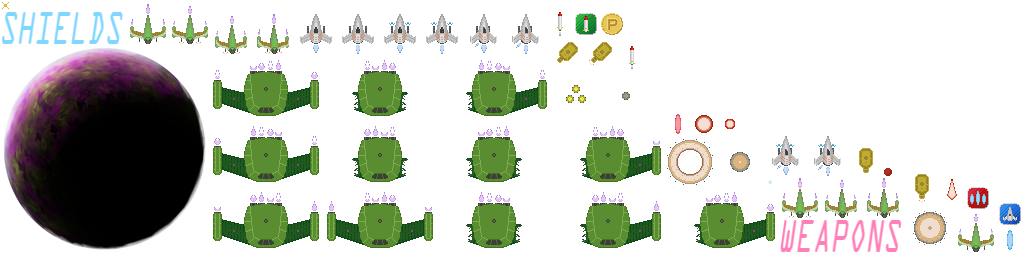
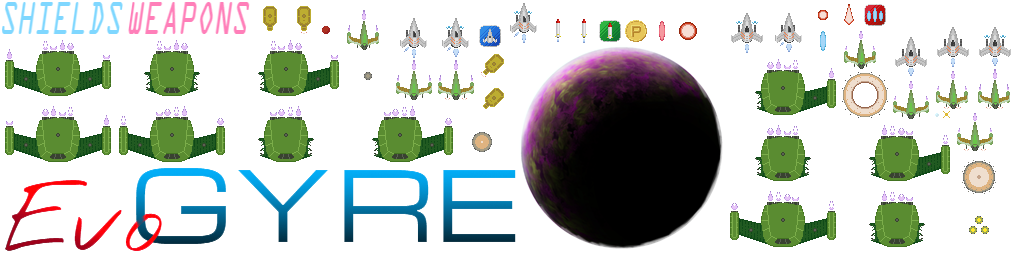
Title image added and DrawingUtils moved

diff --git a/core/src/com/mygdx/game/evogyre/TitleScreen.java b/core/src/com/mygdx/game/evogyre/TitleScreen.java
@@ -1,7 +1,14 @@
 package com.mygdx.game.evogyre;
 
+import com.badlogic.gdx.Gdx;
 import com.badlogic.gdx.InputAdapter;
 import com.badlogic.gdx.Screen;
+import com.badlogic.gdx.graphics.g2d.SpriteBatch;
+import com.badlogic.gdx.graphics.g2d.TextureAtlas;
+import com.badlogic.gdx.graphics.g2d.TextureRegion;
+import com.badlogic.gdx.math.Vector2;
+import com.badlogic.gdx.utils.viewport.FitViewport;
+import com.mygdx.game.evogyre.Utils.DrawingUtils;
 
 /**
  * Created by Jay on 1/12/2016.
@@ -9,9 +16,31 @@ import com.badlogic.gdx.Screen;
 public class TitleScreen extends InputAdapter implements Screen {
     private static final String TAG = TitleScreen.class.getName();
     EvoGyreGame game;
+    FitViewport actionViewport;
+    SpriteBatch batch;
+    MyShapeRenderer myRenderer;
+
+    TextureAtlas atlas;
+    TextureRegion planet;
+    TextureRegion titleText;
 
     public TitleScreen(EvoGyreGame game) {
+        Gdx.input.setInputProcessor(this);
+        Gdx.input.setCatchBackKey(true);
         this.game = game;
+        actionViewport = new FitViewport(Constants.DISPLAY_SIZE, Constants.DISPLAY_SIZE);
+        actionViewport.apply(true);
+
+        batch = new SpriteBatch();
+        myRenderer = new MyShapeRenderer(batch);
+        myRenderer.setAutoShapeType(true);
+        myRenderer.setProjectionMatrix(actionViewport.getCamera().combined);
+        myRenderer.translate(Constants.DISPLAY_SIZE / 2f, Constants.DISPLAY_SIZE / 2f, 0);
+
+        /** LOAD ASSETS **/
+        atlas = game.assets.get(Constants.MAIN_ATLAS);
+        planet = atlas.createSprite("lavender");
+        titleText = atlas.createSprite("title_EvoGyre");
     }
 
     @Override
@@ -50,12 +79,39 @@ public class TitleScreen extends InputAdapter implements Screen {
 
     @Override
     public void resize(int width, int height) {
-
+        Gdx.app.log(TAG, "called 'resize()'");
+        actionViewport.update(width, height, true);
     }
 
     @Override
     public void render(float delta) {
+        // Background color fill
+        DrawingUtils.clearScreen();
 
+        /** DRAW STARS **/
+        VisualEffects.drawStars(myRenderer, 0f, new Vector2(0,0));
+
+        /** DRAW PLANET **/
+        myRenderer.batch.begin();
+        myRenderer.batch.draw(planet,
+                -Constants.DISPLAY_SIZE*.25f - planet.getRegionWidth() / 2,
+                Constants.DISPLAY_SIZE*.25f - planet.getRegionHeight() / 2,
+                planet.getRegionWidth() / 2, planet.getRegionWidth() / 2,
+                planet.getRegionWidth(), planet.getRegionHeight(),
+                1.2f, 1.2f, 0);
+        myRenderer.batch.end();
+
+        /** DRAW TITLE */
+        myRenderer.batch.begin();
+        myRenderer.batch.draw(
+                titleText,
+                -titleText.getRegionWidth() / 2 - 20, 80,
+                titleText.getRegionWidth(), titleText.getRegionHeight(),
+                titleText.getRegionWidth(), titleText.getRegionHeight(),
+                0.8f, 0.8f,
+                0f
+        );
+        myRenderer.batch.end();
     }
 
     @Override

diff --git a/core/src/com/mygdx/game/evogyre/VisualEffects.java b/core/src/com/mygdx/game/evogyre/VisualEffects.java
@@ -34,7 +34,7 @@ public class VisualEffects {
         // TODO: Create a less computationally intensive alternate version
         Color col1 = new Color(0,0,0,0);
 
-        DrawingUtils.enableBlend();
+        com.mygdx.game.evogyre.Utils.DrawingUtils.enableBlend();
         renderer.begin(ShapeRenderer.ShapeType.Line);
 
         float SHIELD_RADIUS = Constants.SHIELD_RADIUS;
@@ -61,13 +61,13 @@ public class VisualEffects {
             }
         }
         renderer.end();
-        DrawingUtils.disableBlend();
+        com.mygdx.game.evogyre.Utils.DrawingUtils.disableBlend();
     }
 
-    private static Tween.SineOut sineOut;
+    private static com.mygdx.game.evogyre.Utils.Tween.SineOut sineOut;
     private static float funnelAlpha;
     public static void drawTunnelInit(float duration) {
-        sineOut = new Tween.SineOut(-Constants.MAP_SIZE_X, 0f, duration);
+        sineOut = new com.mygdx.game.evogyre.Utils.Tween.SineOut(-Constants.MAP_SIZE_X, 0f, duration);
         funnelAlpha = 0.1f;
     }
     public static void drawTunnel(GameScreen screen, float delta,
@@ -89,7 +89,7 @@ public class VisualEffects {
         for (int i = 0; i < ringDistances.length; i++) {
             ringDistances[i] = i * Constants.RING_INTERVAL + ringDisplacement;
         }
-        DrawingUtils.enableBlend();
+        com.mygdx.game.evogyre.Utils.DrawingUtils.enableBlend();
         screen.myRenderer.begin(ShapeRenderer.ShapeType.Line);
         screen.myRenderer.setColor(funnelColor);
         for (float ringX: ringDistances) {
@@ -99,7 +99,7 @@ public class VisualEffects {
             screen.myRenderer.circle((tmpV1.x + tmpV2.x) / 2, (tmpV1.y + tmpV2.y) / 2, tmpV1.dst(tmpV2) / 2, 100);
         }
         screen.myRenderer.end();
-        DrawingUtils.disableBlend();
+        com.mygdx.game.evogyre.Utils.DrawingUtils.disableBlend();
     }
 
     private static Array<Vector2> stars;
@@ -114,7 +114,7 @@ public class VisualEffects {
             }
         }
 
-        DrawingUtils.enableBlend();
+        com.mygdx.game.evogyre.Utils.DrawingUtils.enableBlend();
         renderer.begin(ShapeRenderer.ShapeType.Filled);
         renderer.setColor(Constants.STAR_COLOR);
         for (Vector2 star: stars) {
@@ -124,6 +124,6 @@ public class VisualEffects {
             renderer.circle(rotateStar.x, rotateStar.y, 1f);
         }
         renderer.end();
-        DrawingUtils.disableBlend();
+        com.mygdx.game.evogyre.Utils.DrawingUtils.disableBlend();
     }
 }

diff --git a/core/src/com/mygdx/game/evogyre/Utils/DrawingUtils.java b/core/src/com/mygdx/game/evogyre/Utils/DrawingUtils.java
@@ -1,4 +1,4 @@
-package com.mygdx.game.evogyre;
+package com.mygdx.game.evogyre.Utils;
 
 import com.badlogic.gdx.Gdx;
 import com.badlogic.gdx.graphics.Color;
@@ -6,6 +6,8 @@ import com.badlogic.gdx.graphics.GL20;
 import com.badlogic.gdx.graphics.glutils.ShapeRenderer;
 import com.badlogic.gdx.math.Vector2;
 import com.badlogic.gdx.utils.Array;
+import com.mygdx.game.evogyre.Constants;
+import com.mygdx.game.evogyre.MyShapeRenderer;
 
 /**
  * Created by Jay on 1/26/2016.

diff --git a/core/src/com/mygdx/game/evogyre/Constants.java b/core/src/com/mygdx/game/evogyre/Constants.java
@@ -132,6 +132,12 @@ public class Constants {
     };
     public static final Array<Vector2> VESSEL_POLYGON = new Array<Vector2>(vp_corners);
 
+    /** POWERUPS */
+    public enum Powerup_Types {
+        SHIELD,
+        WEAPON
+    }
+
     /** HUD */
     public static final Color SHIELD_STRENGTH_COLOR_TOP = new Color(0.6f, 0.7f, 1f, 1f);
     public static final Color SHIELD_STRENGTH_COLOR_BOTTOM = new Color(0.2f, 0.3f, 1f, 1f);

diff --git a/core/src/com/mygdx/game/evogyre/PowerupManager.java b/core/src/com/mygdx/game/evogyre/PowerupManager.java
@@ -1,0 +1,21 @@
+package com.mygdx.game.evogyre;
+
+import com.badlogic.gdx.math.Vector2;
+import com.badlogic.gdx.utils.Array;
+
+/**
+ * Created by Jay on 2/28/2016.
+ */
+public class PowerupManager {
+    public void checkCollision(Array<Vessel> vessels) {
+
+    }
+
+    private class Powerup {
+        Vector2 position;
+
+        public void init(Vector2 position) {
+            this.position = position;
+        }
+    }
+}

diff --git a/core/src/com/mygdx/game/evogyre/Utils/Tween.java b/core/src/com/mygdx/game/evogyre/Utils/Tween.java
@@ -1,4 +1,4 @@
-package com.mygdx.game.evogyre;
+package com.mygdx.game.evogyre.Utils;
 
 /**
  * Created by Jay on 1/18/2016.
@@ -8,7 +8,7 @@ package com.mygdx.game.evogyre;
 public class Tween {
     private static final String TAG = Tween.class.getName();
 
-    static class SineOut {
+    public static class SineOut {
         private float timePassed;
         private float startValue;
         private float endValue;

diff --git a/core/src/com/mygdx/game/evogyre/EnemyTrident.java b/core/src/com/mygdx/game/evogyre/EnemyTrident.java
@@ -5,6 +5,7 @@ import com.badlogic.gdx.graphics.g2d.Animation;
 import com.badlogic.gdx.graphics.g2d.TextureAtlas;
 import com.badlogic.gdx.graphics.g2d.TextureRegion;
 import com.badlogic.gdx.math.Vector2;
+import com.mygdx.game.evogyre.Utils.DrawingUtils;
 
 /**
  * Created by Jay on 1/22/2016.

diff --git a/core/src/com/mygdx/game/evogyre/Vessel.java b/core/src/com/mygdx/game/evogyre/Vessel.java
@@ -5,6 +5,7 @@ import com.badlogic.gdx.graphics.g2d.TextureAtlas;
 import com.badlogic.gdx.graphics.g2d.TextureRegion;
 import com.badlogic.gdx.math.Vector2;
 import com.badlogic.gdx.graphics.g2d.Animation;
+import com.mygdx.game.evogyre.Utils.DrawingUtils;
 
 /**
  * Created by Jay on 1/18/2016.

diff --git a/core/src/com/mygdx/game/evogyre/EnemyBallship.java b/core/src/com/mygdx/game/evogyre/EnemyBallship.java
@@ -4,6 +4,7 @@ import com.badlogic.gdx.Application;
 import com.badlogic.gdx.graphics.g2d.TextureAtlas;
 import com.badlogic.gdx.graphics.g2d.TextureRegion;
 import com.badlogic.gdx.math.Vector2;
+import com.mygdx.game.evogyre.Utils.DrawingUtils;
 
 /**
  * Created by Jay on 1/22/2016.

diff --git a/core/src/com/mygdx/game/evogyre/EvoGyreGame.java b/core/src/com/mygdx/game/evogyre/EvoGyreGame.java
@@ -27,7 +27,7 @@ public class EvoGyreGame extends Game {
         settingsScreen = new SettingsScreen(this);
         storyScreen = new StoryScreen(this);
         gameScreen = new GameScreen(this);
-        setScreen(gameScreen);
+        setScreen(titleScreen);
     }
 
 

diff --git a/core/src/com/mygdx/game/evogyre/GameScreen.java b/core/src/com/mygdx/game/evogyre/GameScreen.java
@@ -14,6 +14,7 @@ import com.badlogic.gdx.math.Vector3;
 import com.badlogic.gdx.utils.Array;
 import com.badlogic.gdx.utils.JsonValue;
 import com.badlogic.gdx.utils.viewport.FitViewport;
+import com.mygdx.game.evogyre.Utils.DrawingUtils;
 
 import java.util.Random;
 

diff --git a/core/src/com/mygdx/game/evogyre/BulletManager.java b/core/src/com/mygdx/game/evogyre/BulletManager.java
@@ -8,6 +8,7 @@ import com.badlogic.gdx.math.Vector3;
 import com.badlogic.gdx.utils.Array;
 import com.badlogic.gdx.utils.JsonValue;
 import com.badlogic.gdx.math.Polygon;
+import com.mygdx.game.evogyre.Utils.DrawingUtils;
 
 /**
  * Created by Jay on 1/20/2016.
